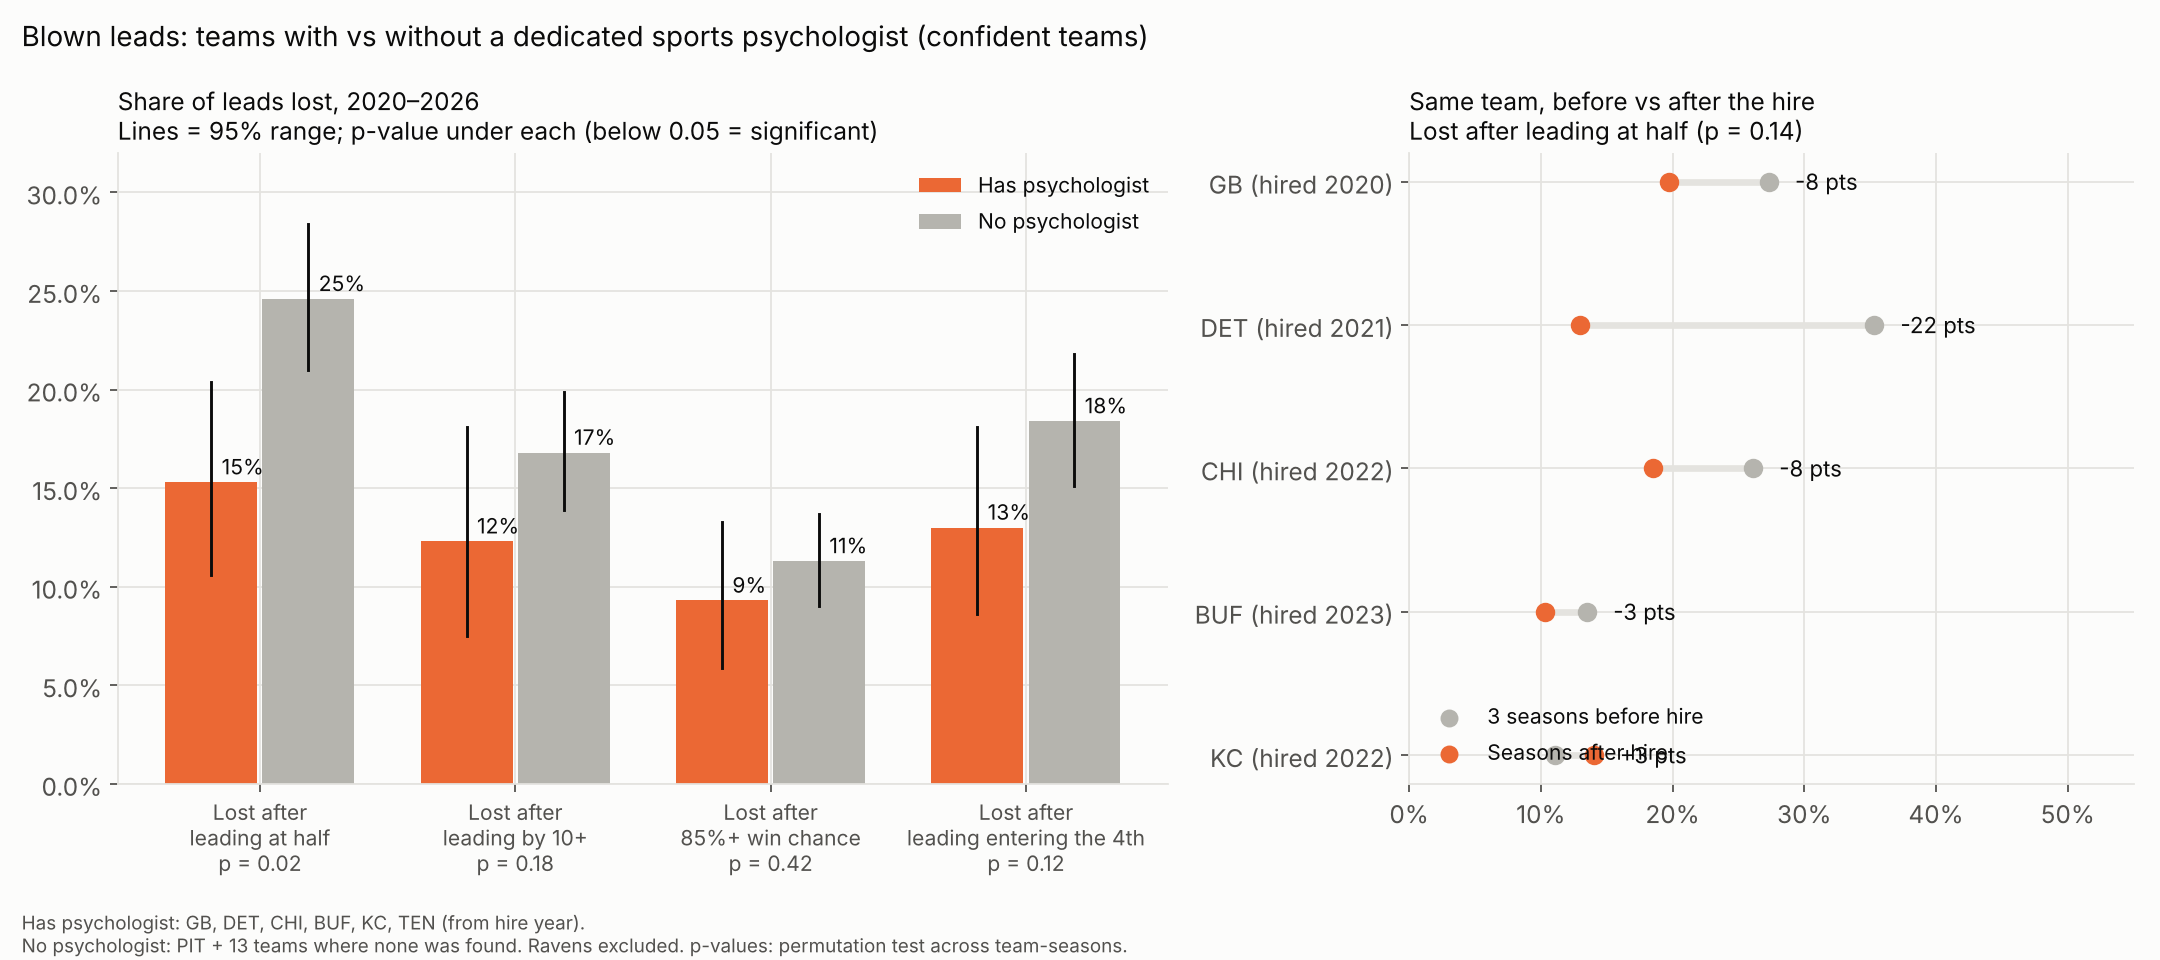
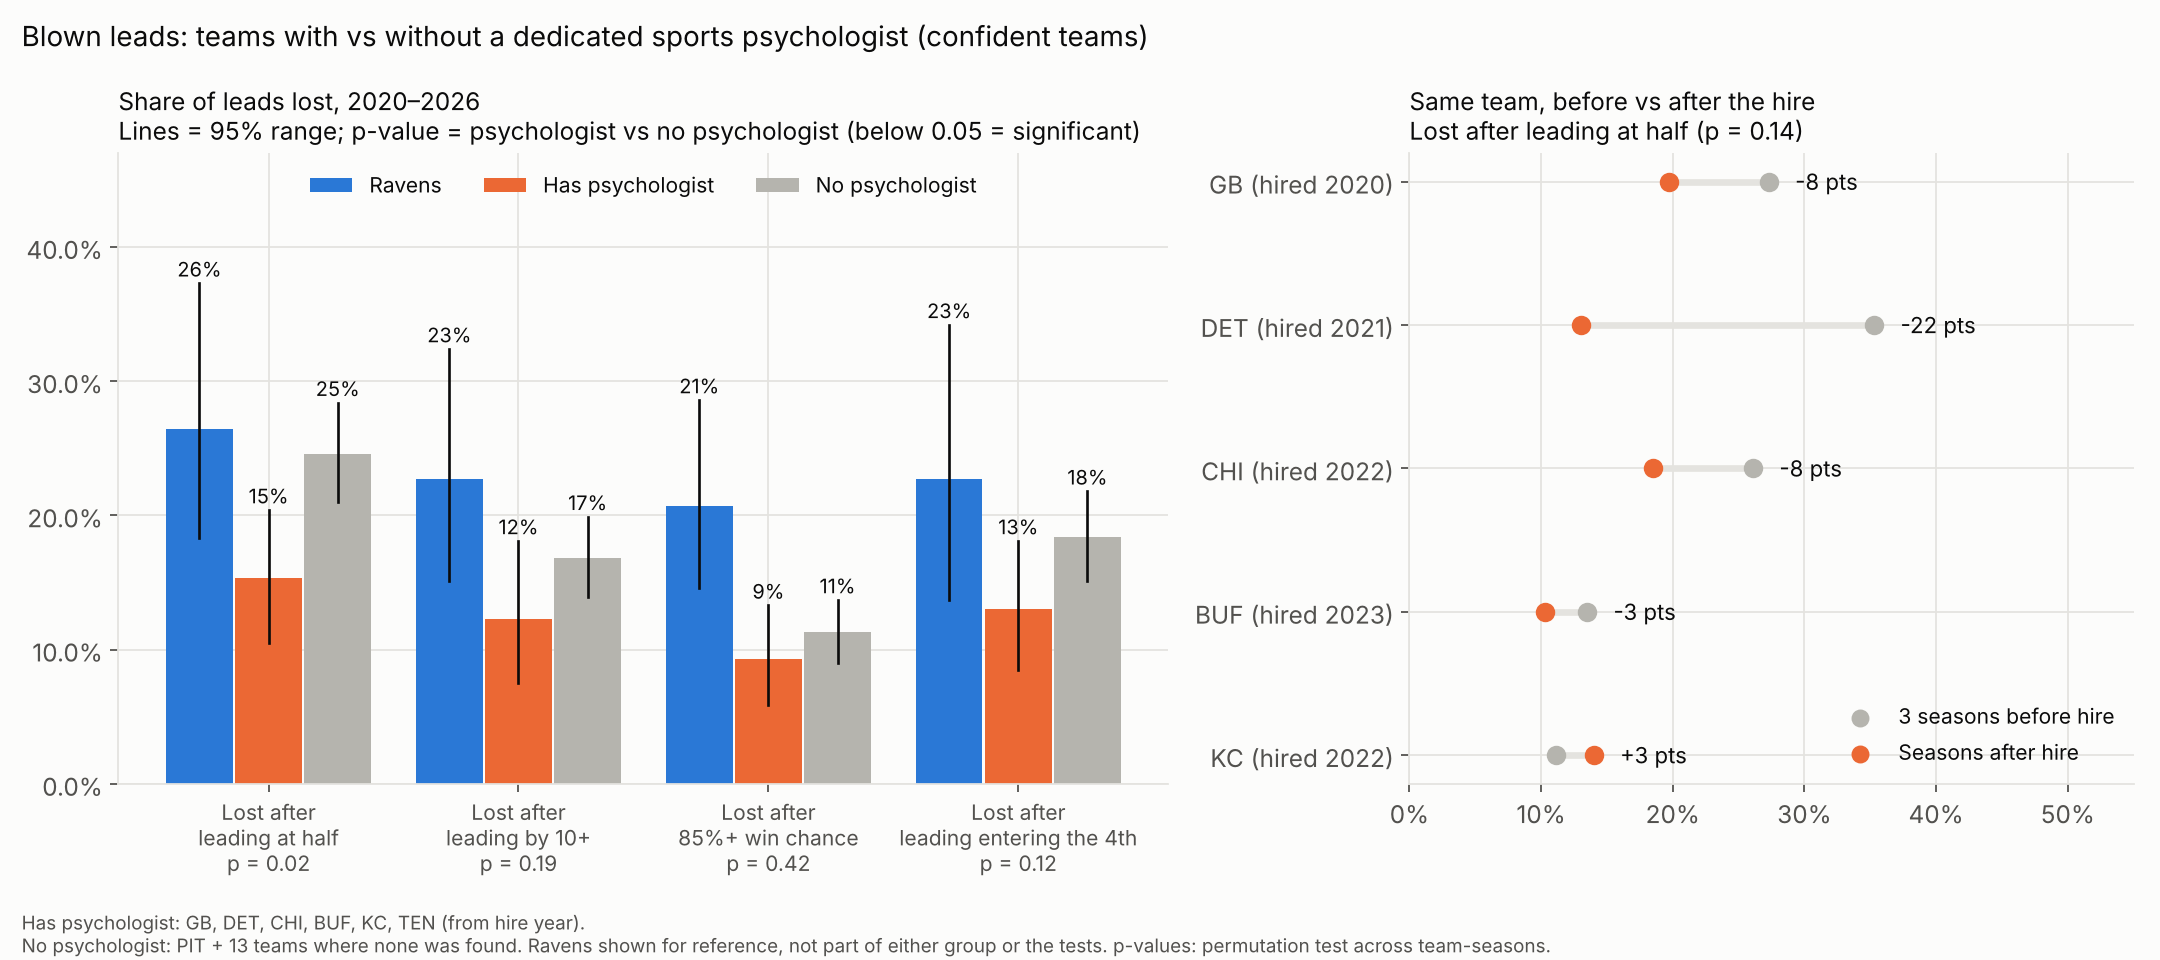
Ravens study: add Ravens bar to confident-group blown-leads chart
Claude-Session: https://claude.ai/code/session_01VaajPvovMVPsxphuCeQMVX

diff --git a/analysis/ravens-second-half/charts.py b/analysis/ravens-second-half/charts.py
@@ -203,18 +203,22 @@ def psych_charts(suf, has_label, title_note):
     fig, (a1, a2) = plt.subplots(1, 2, figsize=(13.5, 6), gridspec_kw={'width_ratios': [1.45, 1]})
     labels = ['Lost after leading at half', 'Lost after leading by 10+', 'Lost after 85%+ win chance', 'Lost after leading entering the 4th']
     x = np.arange(len(labels)); w = .36
-    for j, (grp_name, col) in enumerate((('Has psychologist', ORANGE), ('No psychologist', GRAY))):
+    groups_ = [('Has psychologist', ORANGE), ('No psychologist', GRAY)]
+    if suf == '':
+        groups_ = [('Ravens', BLUE)] + groups_
+    n_ = len(groups_); w = .8 / n_
+    for j, (grp_name, col) in enumerate(groups_):
         sub = pb[pb.group == grp_name].set_index('metric').loc[labels]
-        xs = x + (j - .5) * (w + .02)
+        xs = x + (j - (n_ - 1) / 2) * (w + .01)
         a1.bar(xs, sub.pooled_rate, w, color=col, label=grp_name)
         for xx, (_, r) in zip(xs, sub.iterrows()):
-            a1.plot([xx, xx], [r.ci_low, r.ci_high], color=INK, lw=1.3)
-            a1.text(xx + .04, r.pooled_rate + .004, f'{r.pooled_rate:.0%}', ha='left', fontsize=9.5)
+            a1.plot([xx, xx], [r.ci_low, r.ci_high], color=INK, lw=1.2)
+            a1.text(xx, r.ci_high + .005, f'{r.pooled_rate:.0%}', ha='center', fontsize=9)
     tests = pb[pb.group == 'TEST'].set_index('metric').loc[labels]
     a1.set_xticks(x, [f'{l.replace("Lost after ", "Lost after\n")}\np = {tests.loc[l, "p_perm_pooled"]:.2f}' for l in labels], fontsize=9.5)
-    a1.yaxis.set_major_formatter(matplotlib.ticker.PercentFormatter(1)); a1.set_ylim(0, .32)
-    a1.legend(frameon=False, loc='upper right', fontsize=9.5)
-    a1.set_title('Share of leads lost, 2020–2026\nLines = 95% range; p-value under each (below 0.05 = significant)', loc='left', fontsize=11)
+    a1.yaxis.set_major_formatter(matplotlib.ticker.PercentFormatter(1)); a1.set_ylim(0, .47 if suf == '' else .32)
+    a1.legend(frameon=False, loc='upper center', ncol=3, fontsize=9.5)
+    a1.set_title('Share of leads lost, 2020–2026\nLines = 95% range; p-value = psychologist vs no psychologist (below 0.05 = significant)', loc='left', fontsize=11)
     y = np.arange(len(bb))[::-1]
     for yy, r in zip(y, bb.itertuples()):
         a2.plot([r.blew_half_before, r.blew_half_after], [yy, yy], color=GRID, lw=3, zorder=1)
@@ -224,12 +228,13 @@ def psych_charts(suf, has_label, title_note):
     a2.set_yticks(y, [f'{t} (hired {h})' for t, h in zip(bb.team, bb.hire_season)])
     a2.set_xlim(0, .55); a2.xaxis.set_major_formatter(matplotlib.ticker.PercentFormatter(1))
     a2.scatter([], [], color=GRAY, s=50, label='3 seasons before hire'); a2.scatter([], [], color=ORANGE, s=50, label='Seasons after hire')
-    a2.legend(frameon=False, loc='lower left', fontsize=9.5)
+    a2.legend(frameon=False, loc='lower right' if suf == '' else 'lower left', fontsize=9.5)
     p_pair = _st.ttest_rel(bb.blew_half_after, bb.blew_half_before).pvalue
     a2.set_title(f'Same team, before vs after the hire\nLost after leading at half (p = {p_pair:.2f})', loc='left', fontsize=11)
     fig.suptitle(f'Blown leads: teams with vs without a dedicated sports psychologist {title_note}', x=.01, ha='left', fontsize=12.5)
-    fig.text(.01, .008, f'Has psychologist: {has_label}.\nNo psychologist: PIT + 13 teams where none was found. Ravens excluded. '
-             'p-values: permutation test across team-seasons.', fontsize=8.5, color=INK2)
+    fig.text(.01, .008, f'Has psychologist: {has_label}.\nNo psychologist: PIT + 13 teams where none was found. '
+             + ('Ravens shown for reference, not part of either group or the tests. ' if suf == '' else 'Ravens excluded. ')
+             + 'p-values: permutation test across team-seasons.', fontsize=8.5, color=INK2)
     fig.tight_layout(rect=[0, .06, 1, 1]); fig.savefig(f'{out}/chart_psych_blown{suf}.png', dpi=160); plt.close(fig)
 
 psych_charts('', 'GB, DET, CHI, BUF, KC, TEN (from hire year)', '(confident teams)')

diff --git a/analysis/ravens-second-half/psych_blown.py b/analysis/ravens-second-half/psych_blown.py
@@ -76,6 +76,11 @@ for k, (c, label) in M.items():
         rows.append({'metric': label, 'group': grp_name, 'chances': int(pooled.loc[grp_name, c]), 'blown': int(pooled.loc[grp_name, k]),
                      'pooled_rate': pooled.loc[grp_name, k] / pooled.loc[grp_name, c], 'season_avg_rate': v.mean(),
                      'ci_low': lo, 'ci_high': hi, 'team_seasons_used': len(v)})
+    # Ravens, same definitions, for reference (not part of either group or the tests)
+    bal = ts[ts.season.between(2020, 2026) & (ts.team == 'BAL')]
+    lo, hi = ci(bal)
+    rows.append({'metric': label, 'group': 'Ravens', 'chances': int(bal[c].sum()), 'blown': int(bal[k].sum()),
+                 'pooled_rate': bal[k].sum() / bal[c].sum(), 'ci_low': lo, 'ci_high': hi, 'team_seasons_used': len(bal)})
     # Permutation test on the pooled rate (shuffle group labels across team-seasons)
     chv, blv, isa = x[c].values, x[k].values, (x.grp == 'Has psychologist').values
     pooled_obs = blv[isa].sum() / chv[isa].sum() - blv[~isa].sum() / chv[~isa].sum()

diff --git a/analysis/ravens-second-half/README.md b/analysis/ravens-second-half/README.md
@@ -452,7 +452,7 @@ hire can be compared.
 
 | Share of leads lost | Has psychologist | No psychologist | Gap | p (team-seasons) | p (teams) |
 |---|---|---|---|---|---|
-| After leading by 10+ | 12% (30 of 243) | 17% (110 of 656) | −4 pts | 0.18 | 0.41 |
+| After leading by 10+ | 12% (30 of 243) | 17% (110 of 656) | −4 pts | 0.19 | 0.41 |
 | After an 85%+ win chance | 9% (28 of 301) | 11% (97 of 860) | −2 pts | 0.42 | 0.72 |
 | After leading entering the 4th | 13% (33 of 254) | 18% (132 of 719) | −5 pts | 0.12 | 0.16 |
 | **After leading at half (any margin)** | **15% (36 of 236)** | **25% (180 of 732)** | **−9 pts** | **0.02** | **0.01** |
@@ -495,7 +495,7 @@ Has-psychologist group becomes 15 teams / 83 team-seasons; the no-psychologist g
 |---|---|---|---|
 | Win % | 59.8% (p = 0.002–0.008 seasons; 0.15 teams) | **50.8% (p = 0.25 seasons; 0.91 teams)** | 47.8% |
 | Lost after leading at half | 15% (p = 0.02) | 20% (p = 0.08) | 25% |
-| Lost after leading by 10+ | 12% (p = 0.18) | 15% (p = 0.45) | 17% |
+| Lost after leading by 10+ | 12% (p = 0.19) | 15% (p = 0.45) | 17% |
 | Lost after 85%+ win chance | 9% (p = 0.42) | 11% (p = 0.89) | 11% |
 | Lost after leading entering the 4th | 13% (p = 0.12) | 15% (p = 0.15) | 18% |
 
